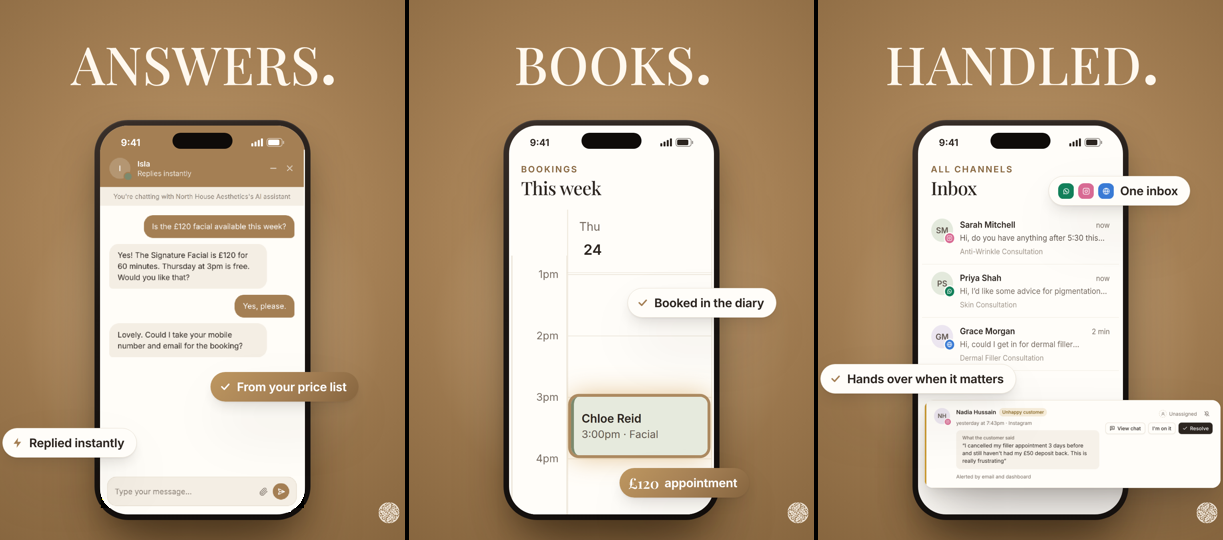
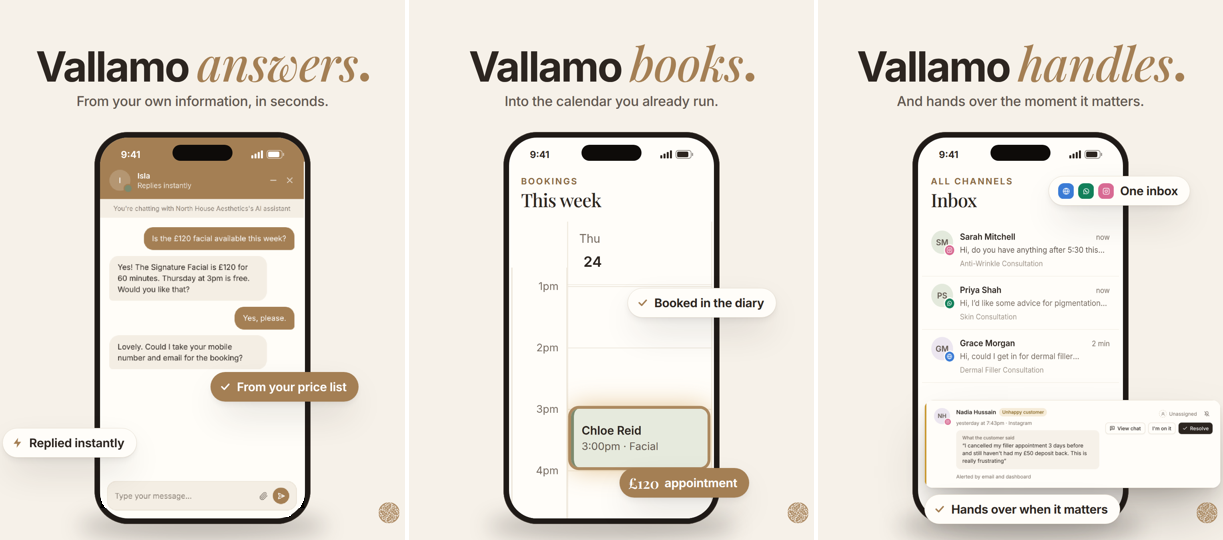
Instagram pins on brand: Vallamo's warm white, ink + clay italic titles (Vallamo answers / books / handles), site copy, floor shadows
Claude-Session: https://claude.ai/code/session_015ws7exuDDXNV8qCuFUsUFK

diff --git a/vallamo-film/videos/src/films/insta/Pins.tsx b/vallamo-film/videos/src/films/insta/Pins.tsx
@@ -10,33 +10,36 @@ import { ChannelIcon, Widget, WIDGET_W } from "../meta/parts";
 
 /**
  * Vallamo's three pinned Instagram posts (1080 x 1350): one word, one phone, the real product.
- * ANSWERS. (the website chat replying) · BOOKS. (the appointment in the diary) · HANDLED. (every
- * channel in one inbox, and a handover when it matters). The same clay field, type and phone on
- * all three, so the top row of the grid reads as one wall.
+ * Vallamo answers. (the website chat replying) · Vallamo books. (the appointment in the diary) ·
+ * Vallamo handles. (every
+ * channel in one inbox, and a handover when it matters). Brand rules (DESIGN.md, BRAND.md): Vallamo's
+ * warm white, ink headline, the clay Playfair italic accent, real UI, floor shadows; one wall of three.
  */
 export type PinProps = { which?: "answers" | "books" | "handled" };
 
-const CREAM = "#FFF8EE";
 const serif = '"Playfair Display", Georgia, serif';
-const PH = { x: 270, y: 300, w: 540, h: 1000, bezel: 14 };
+const PH = { x: 270, y: 330, w: 540, h: 980, bezel: 14 };
 const SCREEN = { w: PH.w - PH.bezel * 2, h: PH.h - PH.bezel * 2 };
 
 function Phone({ children }: { children: ReactNode }) {
   return (
-    <div style={{ position: "absolute", left: PH.x, top: PH.y, width: PH.w, height: PH.h, borderRadius: 84, background: "linear-gradient(160deg, #3A302A 0%, #1B1613 40%, #120E0C 100%)", boxShadow: "0 2px 0 1px rgba(255,255,255,.06) inset, 0 40px 90px -20px rgba(40,25,10,.55), 0 120px 160px -60px rgba(40,25,10,.5)" }}>
+    <>
+    <div style={{ position: "absolute", left: PH.x - 40, top: PH.y + PH.h - 30, width: PH.w + 80, height: 70, borderRadius: "50%", background: "rgba(44,37,32,.28)", filter: "blur(26px)" }} />
+    <div style={{ position: "absolute", left: PH.x, top: PH.y, width: PH.w, height: PH.h, borderRadius: 84, background: "#1F1A17", boxShadow: "0 0 0 1.5px #3A322C inset" }}>
       <div style={{ position: "absolute", left: PH.bezel, top: PH.bezel, width: SCREEN.w, height: SCREEN.h, borderRadius: 70, overflow: "hidden", background: C.paper }}>
         {children}
         {/* the island */}
         <div style={{ position: "absolute", left: (SCREEN.w - 150) / 2, top: 18, width: 150, height: 40, borderRadius: 20, background: "#0E0B09" }} />
       </div>
     </div>
+    </>
   );
 }
 
 /** A floating callout chip over the phone, like the product's own pills. */
 function Chip({ x, y, children, gold = false, style }: { x: number; y: number; children: ReactNode; gold?: boolean; style?: CSSProperties }) {
   return (
-    <div style={{ position: "absolute", left: x, top: y, display: "flex", alignItems: "center", gap: 14, height: 74, padding: "0 30px 0 22px", borderRadius: 999, background: gold ? `linear-gradient(135deg, #BE9760 0%, ${C.clay} 55%, #86653F 100%)` : C.paper, color: gold ? "#FFFFFF" : C.ink, border: gold ? "none" : `1.5px solid ${C.line}`, boxShadow: SHADOW.lift, fontFamily: FONT.sans, fontWeight: 650, fontSize: 30, letterSpacing: "-0.01em", whiteSpace: "nowrap", ...style }}>
+    <div style={{ position: "absolute", left: x, top: y, display: "flex", alignItems: "center", gap: 14, height: 74, padding: "0 30px 0 22px", borderRadius: 999, background: gold ? C.clay : C.paper, color: gold ? "#FFFFFF" : C.ink, border: gold ? "none" : `1.5px solid ${C.line}`, boxShadow: SHADOW.card, fontFamily: FONT.sans, fontWeight: 650, fontSize: 30, letterSpacing: "-0.01em", whiteSpace: "nowrap", ...style }}>
       {children}
     </div>
   );
@@ -117,23 +120,24 @@ function HandledScreen() {
   );
 }
 
+// The verb, and the site's own line for it (vallamo.com).
 const PINS = {
-  answers: { title: "ANSWERS", screen: <AnswersScreen /> },
-  books: { title: "BOOKS", screen: <BooksScreen /> },
-  handled: { title: "HANDLED", screen: <HandledScreen /> },
+  answers: { verb: "answers", line: "From your own information, in seconds.", screen: <AnswersScreen /> },
+  books: { verb: "books", line: "Into the calendar you already run.", screen: <BooksScreen /> },
+  handled: { verb: "handles", line: "And hands over the moment it matters.", screen: <HandledScreen /> },
 };
 
 export function Pin({ which = "answers" }: PinProps) {
   const p = PINS[which];
   return (
-    <AbsoluteFill style={{ background: `radial-gradient(ellipse 85% 70% at 50% 42%, #BE9A6C 0%, ${C.clay} 48%, #87663F 100%)`, overflow: "hidden" }}>
-      {/* soft light behind the phone */}
-      <AbsoluteFill style={{ background: "radial-gradient(circle at 50% 62%, rgba(255,236,205,.35) 0%, rgba(255,236,205,0) 45%)" }} />
-      {/* the title */}
-      <div style={{ position: "absolute", left: 0, right: 0, top: 92, textAlign: "center", fontFamily: serif, fontWeight: 500, fontSize: 132, lineHeight: 1, letterSpacing: "0.01em", color: CREAM }}>
-        {p.title}
-        <span style={{ display: "inline-block", width: 26, height: 26, marginLeft: 8, borderRadius: "50%", background: CREAM }} />
+    <AbsoluteFill style={{ background: C.canvas, overflow: "hidden" }}>
+      {/* the title: "Vallamo" in ink, the verb in clay Playfair italic, as vallamo.com sets "Handled by Vallamo." */}
+      <div style={{ position: "absolute", left: 0, right: 0, top: 96, textAlign: "center", whiteSpace: "nowrap", lineHeight: 1 }}>
+        <span style={{ fontFamily: FONT.sans, fontWeight: 700, fontSize: 104, letterSpacing: "-0.035em", color: C.ink }}>Vallamo </span>
+        <span style={{ fontFamily: serif, fontStyle: "italic", fontWeight: 500, fontSize: 118, letterSpacing: "-0.01em", color: C.clay }}>{p.verb}</span>
+        <span style={{ display: "inline-block", width: 22, height: 22, marginLeft: 6, borderRadius: "50%", background: C.clay }} />
       </div>
+      <div style={{ position: "absolute", left: 0, right: 0, top: 232, textAlign: "center", fontFamily: FONT.sans, fontWeight: 500, fontSize: 34, letterSpacing: "-0.01em", color: C.ink2 }}>{p.line}</div>
       <Phone>{p.screen}</Phone>
       {which === "answers" && (
         <>
@@ -152,18 +156,18 @@ export function Pin({ which = "answers" }: PinProps) {
       {which === "handled" && (
         <>
           <Chip x={610} y={440} style={{ gap: 10 }}>
-            {(["m-ch-wa", "m-ch-ig", "m-ch-web"] as PieceName[]).map((c) => <ChannelIcon key={c} card={c} size={40} />)}
+            {(["m-ch-web", "m-ch-wa", "m-ch-ig"] as PieceName[]).map((c) => <ChannelIcon key={c} card={c} size={40} />)}
             <span style={{ marginLeft: 6 }}>One inbox</span>
           </Chip>
           <div style={{ position: "absolute", left: 300, top: 1000, width: 740, borderRadius: 22, background: C.paper, boxShadow: SHADOW.lift, overflow: "hidden" }}>
             <Piece name="handover" w={740} />
           </div>
-          <Chip x={40} y={910}><Check c={C.clay} />Hands over when it matters</Chip>
+          <Chip x={300} y={1236}><Check c={C.clay} />Hands over when it matters</Chip>
         </>
       )}
       {/* the mark, quietly */}
       <div style={{ position: "absolute", right: 46, bottom: 40, opacity: 0.85 }}>
-        <Logo file="vallamo-mark" w={56} h={56} color={CREAM} />
+        <Logo file="vallamo-mark" w={56} h={56} color={C.clay} />
       </div>
     </AbsoluteFill>
   );
